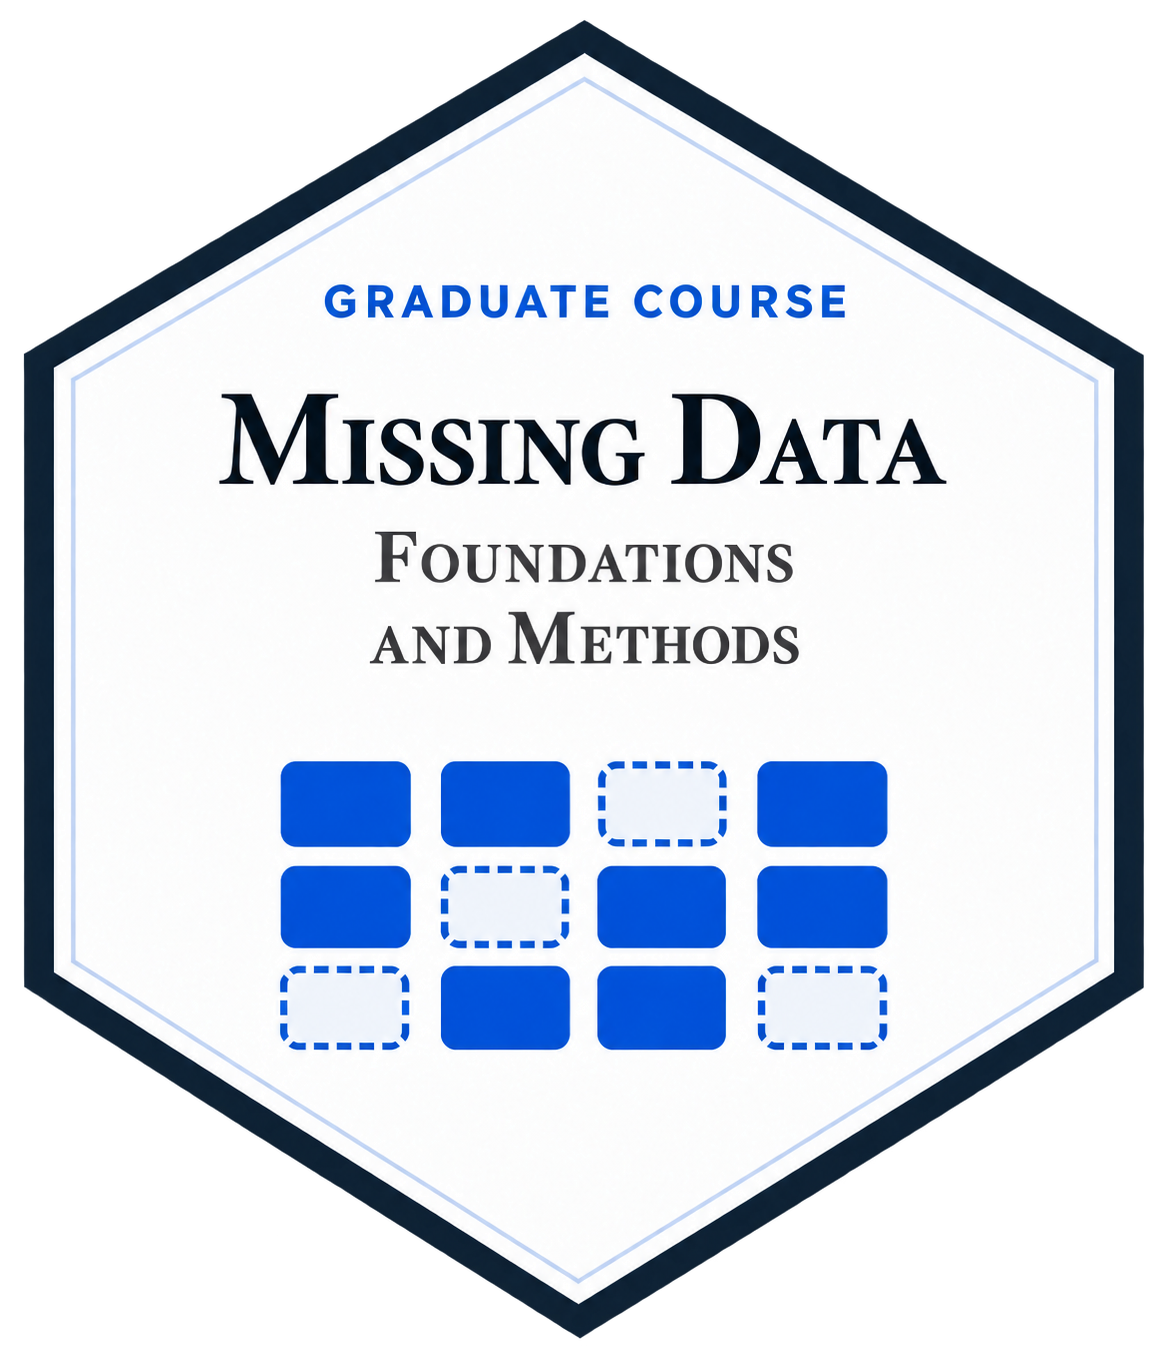
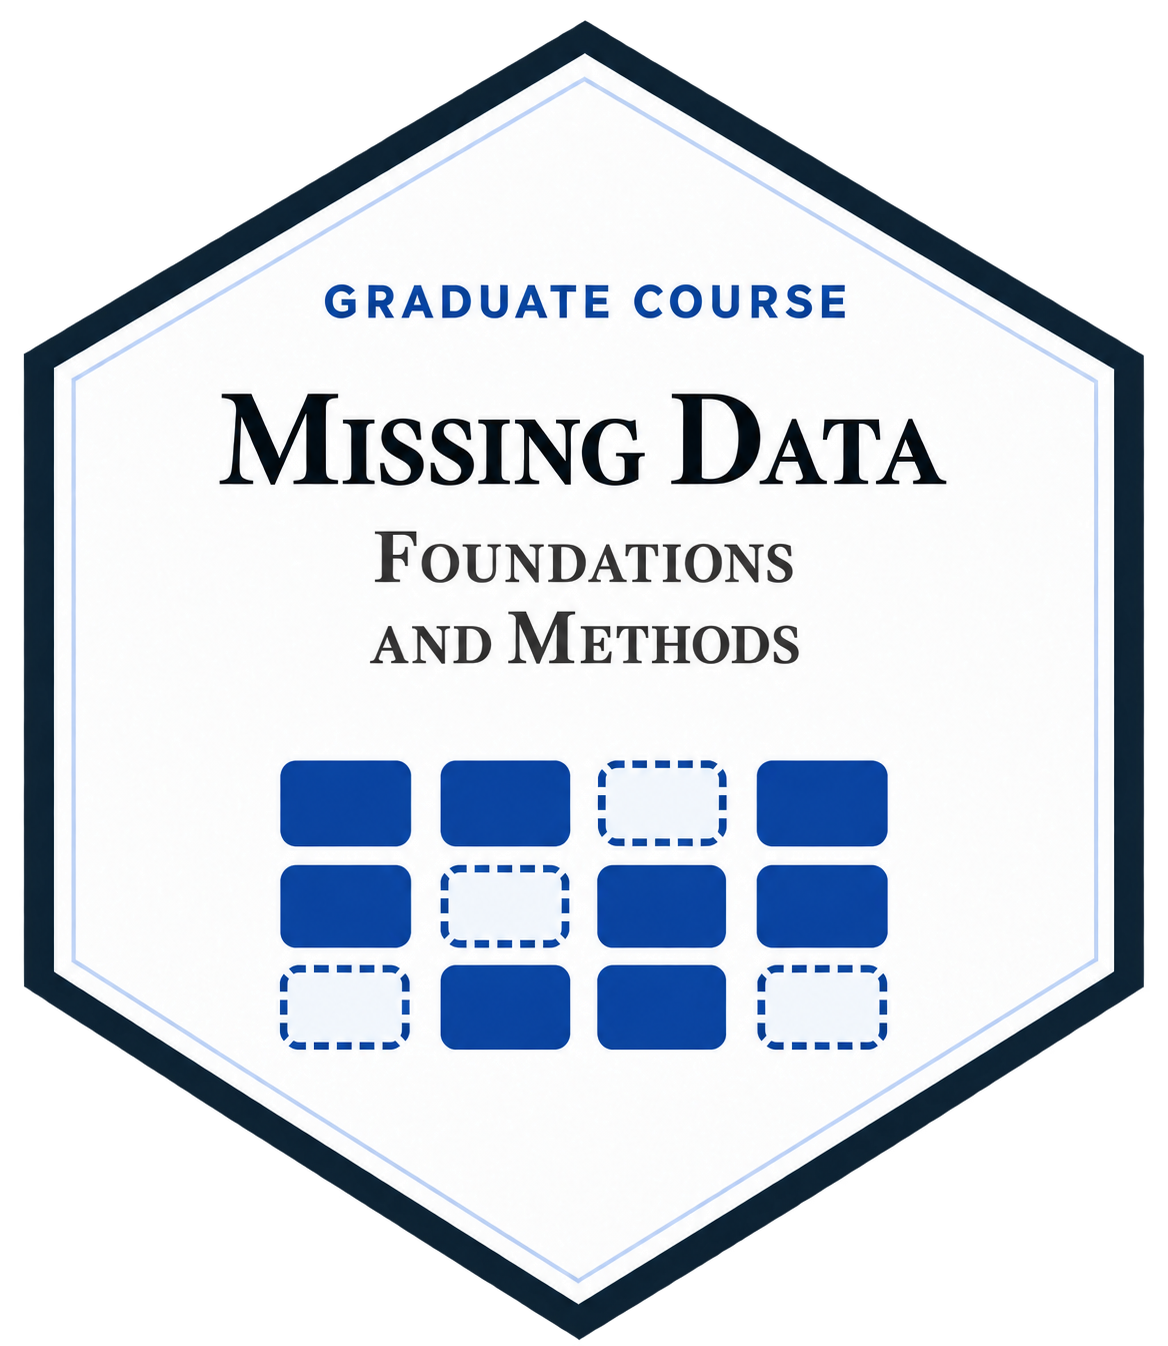
Use darker blue accents on missing data badge

Changed region(s): [[0.2158, 0.5617, 0.7705, 0.7801], [0.2774, 0.1872, 0.7397, 0.2496], [0.4623, 0.312, 0.4932, 0.3432]]

diff --git a/docs/index.html b/docs/index.html
@@ -307,7 +307,7 @@ WARF Office Building | 610 Walnut St, Room 207A | Madison, WI 53726</p>
     <span class="highlight-copy"><span class="highlight-kind">University course</span><span class="highlight-title">Applied Longitudinal Analysis</span></span>
   </a>
   <a class="highlight-card" href="https://lmaowisc.github.io/missing_data/" target="_blank" rel="noopener noreferrer">
-    <img src="images/missing-data-course.png" alt="" width="80" height="92">
+    <img src="images/missing-data-course.png?v=3" alt="" width="80" height="92">
     <span class="highlight-copy"><span class="highlight-kind">University course</span><span class="highlight-title">Missing Data: Theory and Methods</span></span>
   </a>
   <a class="highlight-card" href="https://lmaowisc.github.io/tidysurv/" target="_blank" rel="noopener noreferrer">

diff --git a/docs/courses.html b/docs/courses.html
@@ -233,7 +233,7 @@ ul.task-list li input[type="checkbox"] {
 <h3 class="anchored" data-anchor-id="missing-data"><a href="https://lmaowisc.github.io/missing_data/" target="_blank">Missing Data: Theory and Methods</a></h3>
 <div class="course-entry">
 <div class="course-avatar">
-<p><a href="https://lmaowisc.github.io/missing_data/" class="course-image-link" target="_blank"><img src="images/missing-data-course.png" class="img-fluid" alt="Missing Data: Foundations and Methods course site"></a><br>
+<p><a href="https://lmaowisc.github.io/missing_data/" class="course-image-link" target="_blank"><img src="images/missing-data-course.png?v=3" class="img-fluid" alt="Missing Data: Foundations and Methods course site"></a><br>
 <span class="course-date">2017</span></p>
 </div>
 <div class="course-outline">
